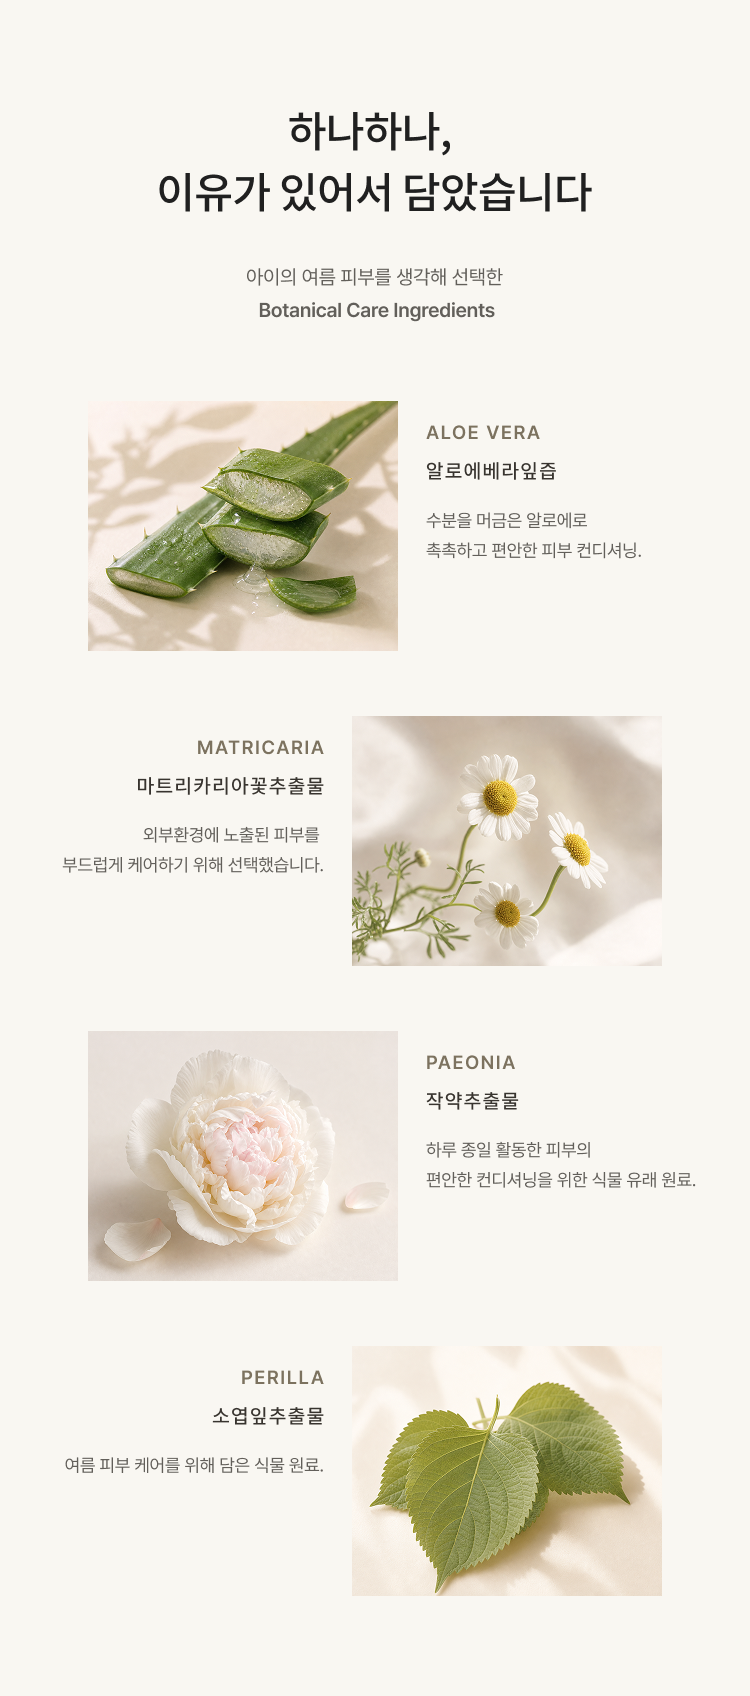
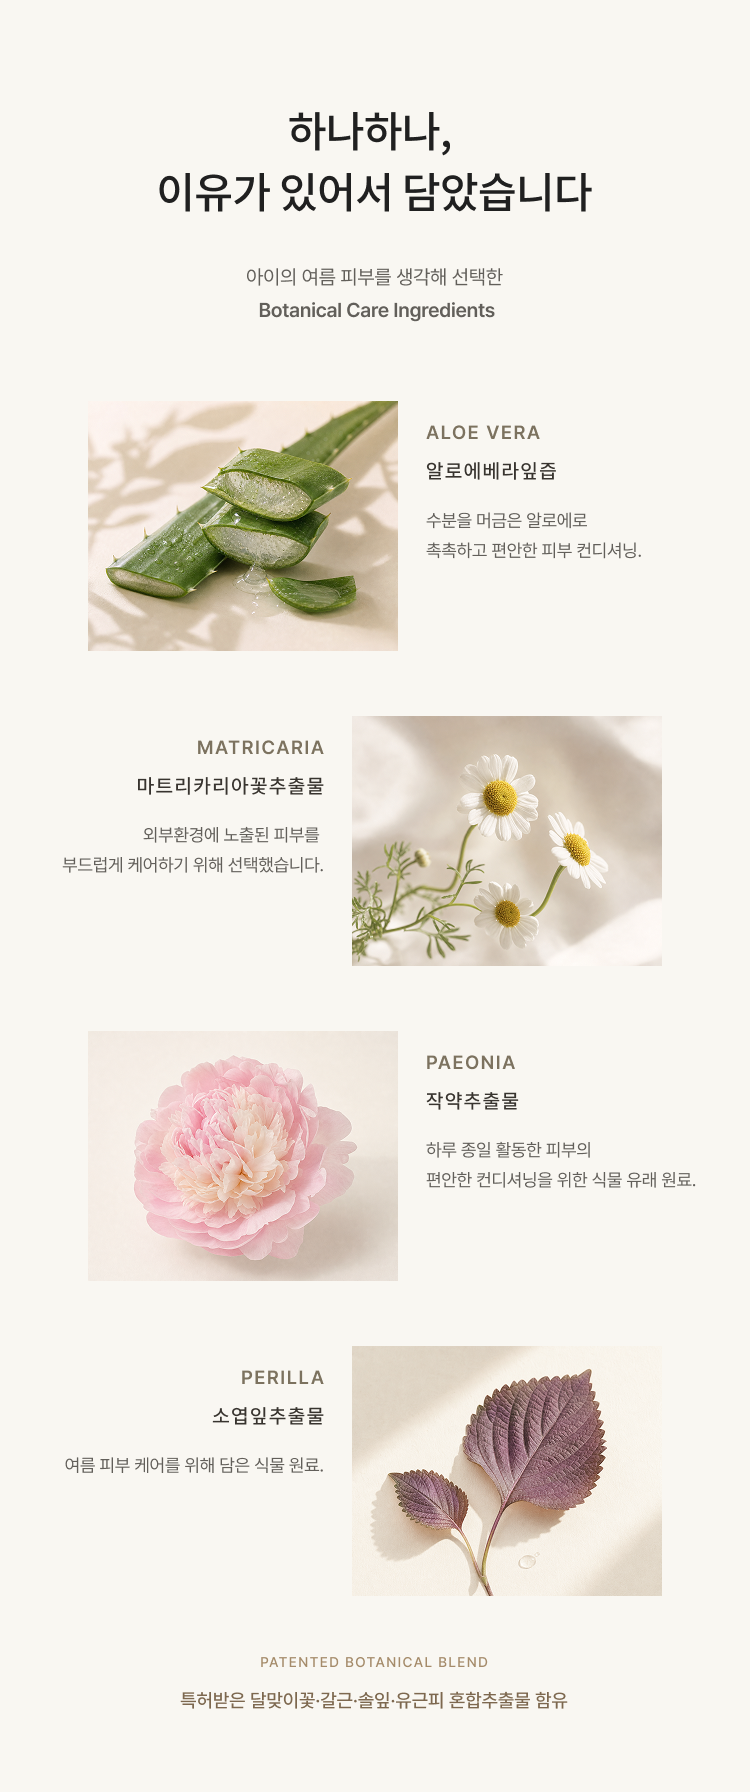
fix: update GOYOBAM detail pages 7 and 14

diff --git a/resole-lotion-demo/index.html b/resole-lotion-demo/index.html
@@ -54,8 +54,8 @@
       <div class="store-section-head"><div><p class="section-kicker">NEW ARRIVAL</p><h2>새롭게 만나는 RESOLE</h2></div><a href="#all">전체보기 <span>→</span></a></div>
       <div class="product-rail" aria-label="신상품 목록">
         <article class="product-card">
-          <a href="product/goyobam.html?v=20260831-r2" class="product-image-wrap"><span class="card-badge mist">NEW</span><img src="assets/goyobam/shop/thumb01.png?v=20260827-r1" alt="ROOTEDIT GOYOBAM 고요밤 150 ml" /></a>
-          <div class="product-card-body"><p class="product-brand">ROOTEDIT</p><a href="product/goyobam.html?v=20260831-r2" class="product-name">GOYOBAM 고요밤 150 ml</a><div class="product-availability"><strong>PORTFOLIO</strong><span>상세 보기</span></div><p class="product-meta">아이 피부 케어, 무엇부터 달라야 할까요?</p></div>
+          <a href="product/goyobam.html?v=20260901-r3" class="product-image-wrap"><span class="card-badge mist">NEW</span><img src="assets/goyobam/shop/thumb01.png?v=20260827-r1" alt="ROOTEDIT GOYOBAM 고요밤 150 ml" /></a>
+          <div class="product-card-body"><p class="product-brand">ROOTEDIT</p><a href="product/goyobam.html?v=20260901-r3" class="product-name">GOYOBAM 고요밤 150 ml</a><div class="product-availability"><strong>PORTFOLIO</strong><span>상세 보기</span></div><p class="product-meta">아이 피부 케어, 무엇부터 달라야 할까요?</p></div>
         </article>
         <article class="product-card">
           <a href="product/cream-mist.html" class="product-image-wrap"><span class="card-badge mist">NEW</span><img src="assets/cream-mist/shop/thumb01.jpg" alt="RESOLE 크림 미스트 80 mL" /></a>
@@ -82,7 +82,7 @@
     <section id="all" class="store-section store-shell compact-bottom">
       <div class="store-section-head"><div><p class="section-kicker">ALL PRODUCTS</p><h2>전체 상품</h2></div></div>
       <div class="all-product-grid">
-        <article class="product-card"><a href="product/goyobam.html?v=20260831-r2" class="product-image-wrap"><img src="assets/goyobam/shop/thumb06.png?v=20260827-r1" alt="ROOTEDIT GOYOBAM 고요밤 150 ml" /></a><div class="product-card-body"><p class="product-brand">ROOTEDIT</p><a href="product/goyobam.html?v=20260831-r2" class="product-name">GOYOBAM 고요밤 150 ml</a><div class="product-availability"><strong>PORTFOLIO</strong><span>상세 보기</span></div></div></article>
+        <article class="product-card"><a href="product/goyobam.html?v=20260901-r3" class="product-image-wrap"><img src="assets/goyobam/shop/thumb06.png?v=20260827-r1" alt="ROOTEDIT GOYOBAM 고요밤 150 ml" /></a><div class="product-card-body"><p class="product-brand">ROOTEDIT</p><a href="product/goyobam.html?v=20260901-r3" class="product-name">GOYOBAM 고요밤 150 ml</a><div class="product-availability"><strong>PORTFOLIO</strong><span>상세 보기</span></div></div></article>
         <article class="product-card"><a href="product/cream-mist.html" class="product-image-wrap"><img src="assets/cream-mist/shop/thumb05.jpg" alt="RESOLE 크림 미스트 80 mL" /></a><div class="product-card-body"><p class="product-brand">RESOLE</p><a href="product/cream-mist.html" class="product-name">크림 미스트 80 mL</a><div class="product-price"><strong>23,000원</strong><span>30%</span></div></div></article>
         <article class="product-card"><a href="product/radiance-body-mist.html" class="product-image-wrap"><img src="assets/body-mist/shop/S-06_thumb.png" alt="리솔90 레디언스 바디미스트 100 mL" /></a><div class="product-card-body"><p class="product-brand">RESOLE90</p><a href="product/radiance-body-mist.html" class="product-name">레디언스 바디미스트 100 mL</a><div class="product-availability"><strong>런칭 기념</strong><span>혜택 확인</span></div></div></article>
         <article class="product-card"><a href="product/barrier-lotion.html" class="product-image-wrap"><img src="../thumbs/thum03_00001_.png" alt="RESOLE 배리어 로션 300 mL" /></a><div class="product-card-body"><p class="product-brand">RESOLE</p><a href="product/barrier-lotion.html" class="product-name">배리어 로션 300 mL</a><div class="product-price"><strong>21,900원</strong><span>31%</span><del>31,900원</del></div></div></article>

diff --git a/resole-lotion-demo/goyobam/index.html b/resole-lotion-demo/goyobam/index.html
@@ -22,14 +22,14 @@
     <img src="../assets/goyobam/detail/04.png?v=20260831-r2" alt="고요밤 상세 아트보드 4" width="750" height="1763" loading="lazy" />
     <img src="../assets/goyobam/detail/05.png?v=20260831-r2" alt="고요밤 상세 아트보드 5" width="750" height="1410" loading="lazy" />
     <img src="../assets/goyobam/detail/06.png?v=20260831-r2" alt="고요밤 상세 아트보드 6" width="750" height="1488" loading="lazy" />
-    <img src="../assets/goyobam/detail/07.png?v=20260831-r2" alt="고요밤 상세 아트보드 7" width="750" height="1696" loading="lazy" />
+    <img src="../assets/goyobam/detail/07.png?v=20260901-r3" alt="고요밤 상세 아트보드 7" width="750" height="1792" loading="lazy" />
     <img src="../assets/goyobam/detail/08.png?v=20260831-r2" alt="고요밤 상세 아트보드 8" width="750" height="1809" loading="lazy" />
     <img src="../assets/goyobam/detail/09.png?v=20260831-r2" alt="고요밤 상세 아트보드 9" width="750" height="1862" loading="lazy" />
     <img src="../assets/goyobam/detail/10.png?v=20260831-r2" alt="고요밤 상세 아트보드 10" width="750" height="1275" loading="lazy" />
     <img src="../assets/goyobam/detail/11.png?v=20260831-r2" alt="고요밤 상세 아트보드 11" width="750" height="1161" loading="lazy" />
     <img src="../assets/goyobam/detail/12.png?v=20260831-r2" alt="고요밤 상세 아트보드 12" width="750" height="868" loading="lazy" />
     <img src="../assets/goyobam/detail/13.png?v=20260831-r2" alt="고요밤 상세 아트보드 13" width="750" height="2153" loading="lazy" />
-    <img src="../assets/goyobam/detail/14.png?v=20260831-r2" alt="고요밤 상세 아트보드 14" width="750" height="1268" loading="lazy" />
+    <img src="../assets/goyobam/detail/14.png?v=20260901-r3" alt="고요밤 상세 아트보드 14" width="750" height="2053" loading="lazy" />
   </main>
   <script>
     if (window.matchMedia('(prefers-reduced-motion: reduce)').matches) {

diff --git a/resole-lotion-demo/product/goyobam.html b/resole-lotion-demo/product/goyobam.html
@@ -50,7 +50,7 @@
     </section>
     <nav class="detail-tabs store-shell"><a class="active" href="#detail">상세페이지</a><a href="#info">프로젝트 정보</a><a href="#faq">안내</a></nav>
     <section id="detail" class="mist-detail-section">
-      <iframe class="mist-detail-frame" data-detail-frame title="ROOTEDIT GOYOBAM 고요밤 상세페이지" src="../goyobam/index.html?v=20260831-r2" loading="eager" scrolling="no" allow="autoplay"></iframe>
+      <iframe class="mist-detail-frame" data-detail-frame title="ROOTEDIT GOYOBAM 고요밤 상세페이지" src="../goyobam/index.html?v=20260901-r3" loading="eager" scrolling="no" allow="autoplay"></iframe>
     </section>
     <section id="info" class="info-section store-shell detail-narrow"><h2>프로젝트 정보</h2><div class="info-grid"><div><span>브랜드</span><strong>ROOTEDIT</strong></div><div><span>제품명</span><strong>GOYOBAM 고요밤</strong></div><div><span>용량</span><strong>150 ml / 5.07 fl. oz.</strong></div></div></section>
     <section id="faq" class="faq store-shell detail-narrow"><h2>안내</h2><details open><summary>이 페이지는 실제 판매 페이지인가요?</summary><p>본 페이지는 상세페이지 디자인 포트폴리오 시안이며 실제 결제는 제공되지 않습니다.</p></details></section>
